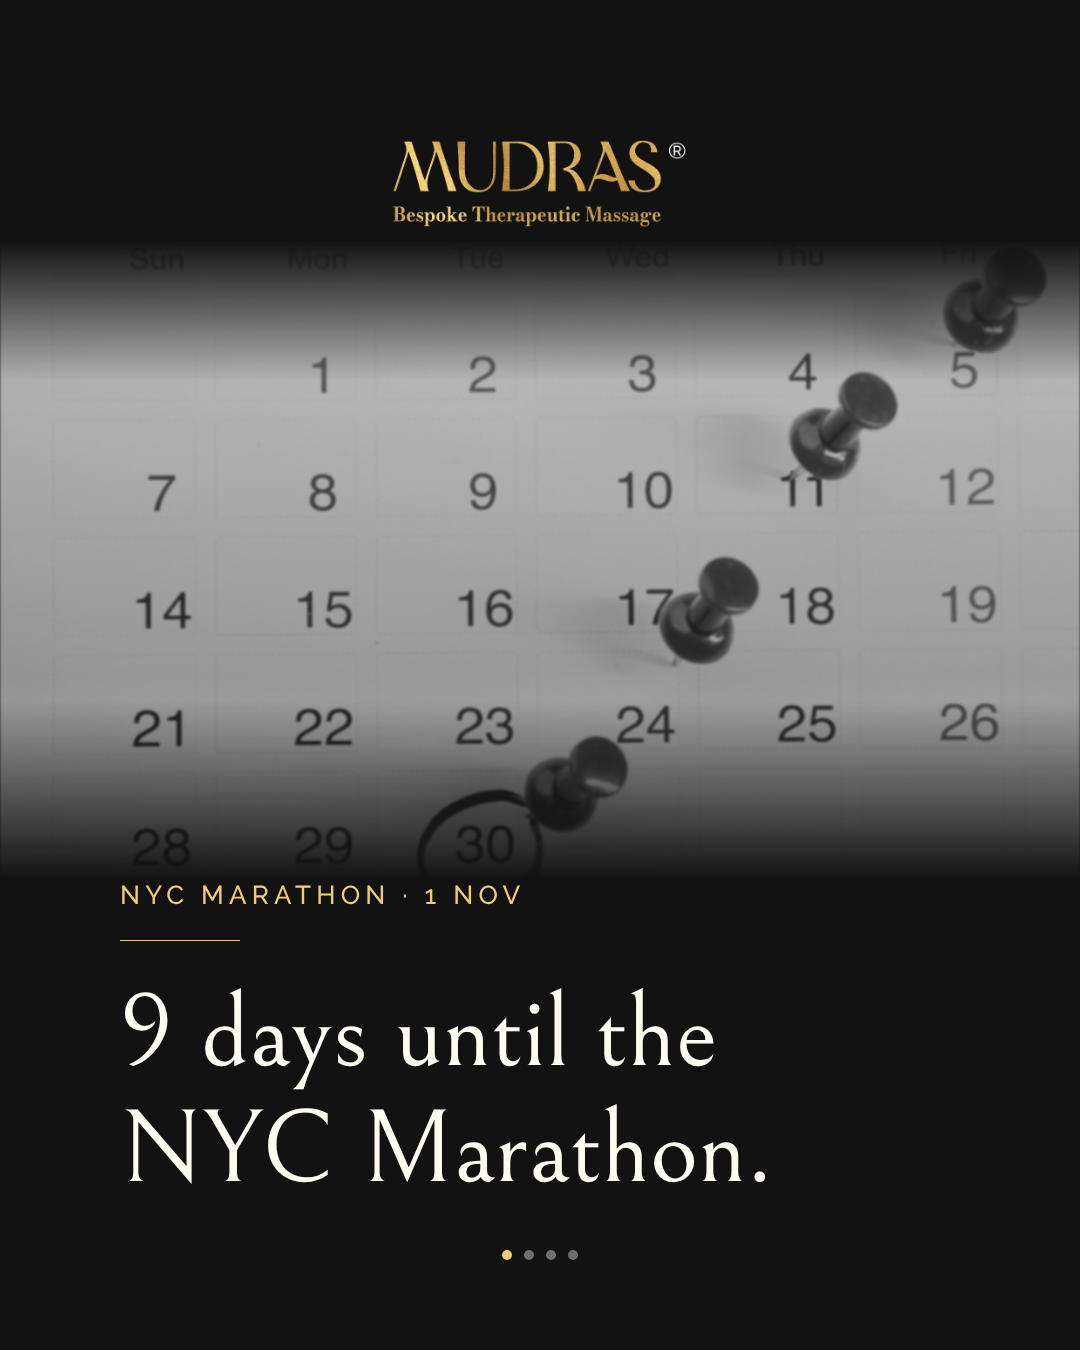
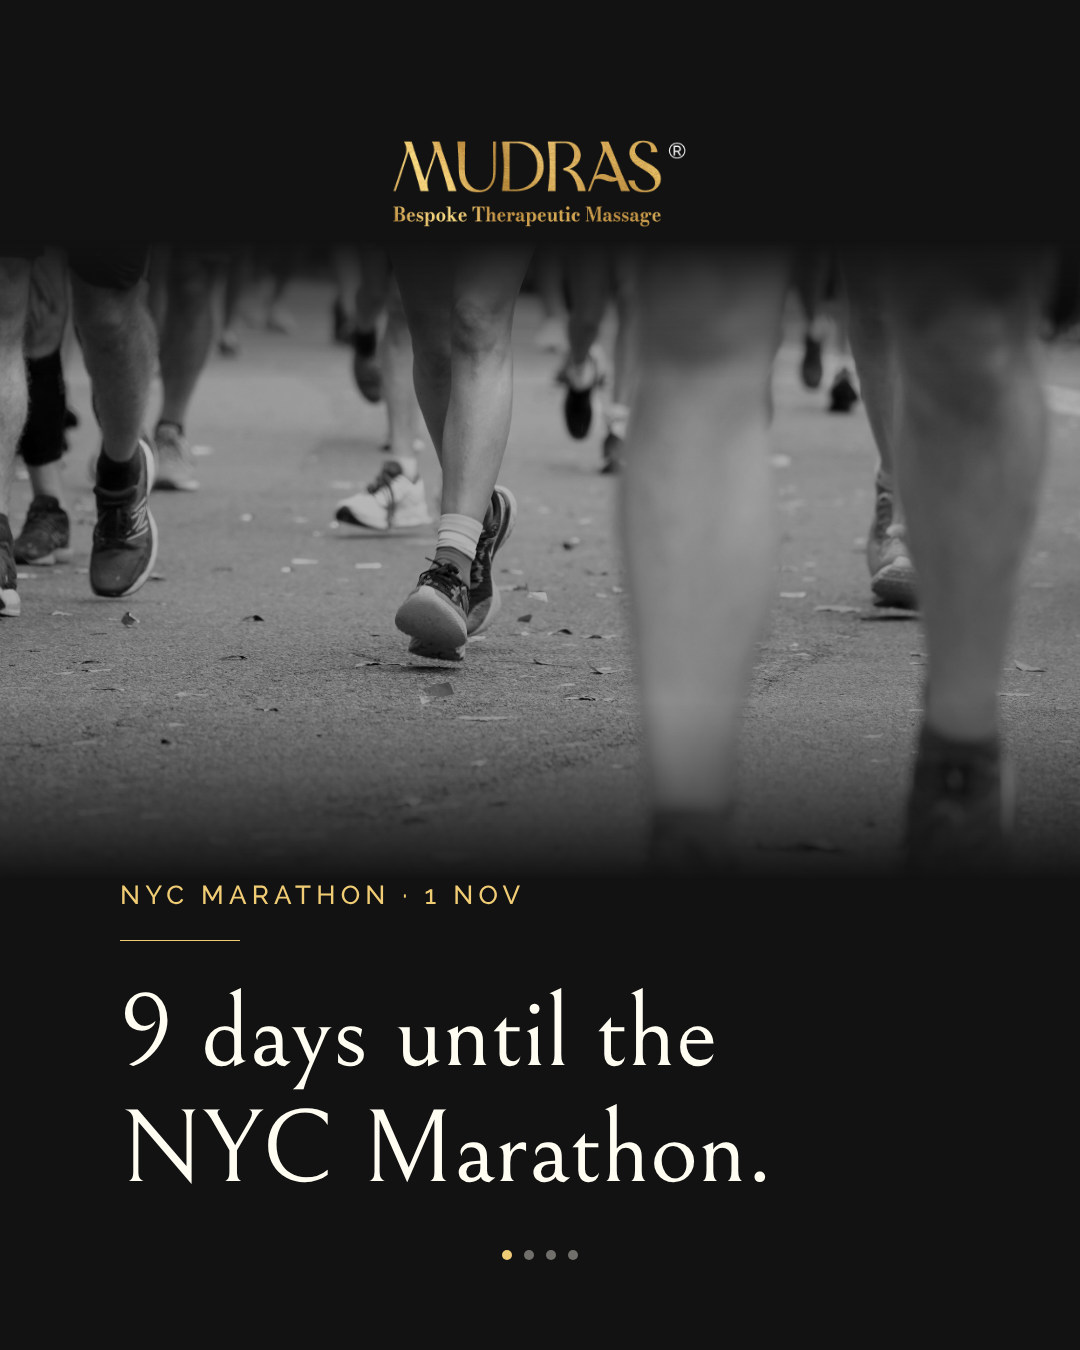
Mudras posts #1-#2: use photos that match the copy
Swap the calendar and spa still-life photos for NYC Marathon runners'
legs and leg-massage shots (Unsplash License, no faces), and update the
calendar's image description, source and download links for rows 1-2.

Claude-Session: https://claude.ai/code/session_01WnXcuRrGu4zGnnykNFmZUS

Changed region(s): [[0.0, 0.1867, 1.0, 0.6222]]

diff --git a/deliverables/mudras/source/design/posts.html b/deliverables/mudras/source/design/posts.html
@@ -37,7 +37,7 @@ body.notext .t{visibility:hidden}
 
 <!-- POST #1 · Instagram carousel · slide 1 (hook) -->
 <div class="ab p45" id="p1_s1">
-  <div class="photo" style="top:240px;bottom:auto;height:640px;background-image:url(../img/p1_calendar.jpg);background-size:cover;background-position:65% 20%;filter:grayscale(1) contrast(1.05) brightness(.72) blur(1px);-webkit-mask-image:linear-gradient(180deg,transparent 0%,#000 22%,#000 72%,transparent 100%);mask-image:linear-gradient(180deg,transparent 0%,#000 22%,#000 72%,transparent 100%)"></div>
+  <div class="photo" style="top:240px;bottom:auto;height:640px;background-image:url(../img/run_nyc_legs.jpg);background-size:cover;background-position:55% 50%;filter:grayscale(1) contrast(1.08) brightness(.75);-webkit-mask-image:linear-gradient(180deg,transparent 0%,#000 22%,#000 72%,transparent 100%);mask-image:linear-gradient(180deg,transparent 0%,#000 22%,#000 72%,transparent 100%)"></div>
   <div class="shade" style="background:linear-gradient(180deg,rgba(18,18,18,0) 30%,rgba(18,18,18,.15) 50%,rgba(18,18,18,0) 66%)"></div>
   <div class="logo t" style="position:absolute;top:140px;left:50%;transform:translateX(-50%);width:300px"><img src="../site/orig_Group_1487669750.png"></div>
   <div style="position:absolute;left:120px;right:120px;top:880px">
@@ -76,8 +76,7 @@ body.notext .t{visibility:hidden}
 
 <!-- slide 4 (CTA) -->
 <div class="ab p45" id="p1_s4">
-  <div class="photo" style="background-image:url(../img/p1_calendar.jpg);background-size:210%;background-position:30% 98%;filter:grayscale(1) brightness(.75) blur(3px)"></div>
-  <div class="shade" style="background:linear-gradient(180deg,var(--ink) 0%,rgba(18,18,18,.94) 62%,rgba(18,18,18,.6) 100%)"></div>
+  <div class="photo" style="top:640px;background-image:url(../img/leg_dark_crop.jpg);background-size:cover;background-position:30% 30%;filter:grayscale(1) contrast(1.1) brightness(.95);-webkit-mask-image:linear-gradient(180deg,transparent 0%,#000 30%);mask-image:linear-gradient(180deg,transparent 0%,#000 30%)"></div>
   <div class="logo t" style="position:absolute;top:140px;left:50%;transform:translateX(-50%);width:260px"><img src="../site/orig_Group_1487669750.png"></div>
   <div style="position:absolute;left:120px;right:120px;top:420px">
     <div class="rule" style="width:120px;margin-bottom:52px"></div>
@@ -89,7 +88,7 @@ body.notext .t{visibility:hidden}
 
 <!-- POST #1 · Instagram Story · y 460–980 left clear for the native countdown sticker -->
 <div class="ab story" id="p1_story">
-  <div class="photo" style="top:400px;bottom:auto;height:640px;background-image:url(../img/p1_calendar.jpg);background-size:cover;background-position:62% 20%;filter:grayscale(1) contrast(1.05) brightness(.72) blur(1px);-webkit-mask-image:linear-gradient(180deg,transparent 0%,#000 22%,#000 72%,transparent 100%);mask-image:linear-gradient(180deg,transparent 0%,#000 22%,#000 72%,transparent 100%)"></div>
+  <div class="photo" style="top:400px;bottom:auto;height:640px;background-image:url(../img/run_nyc_legs.jpg);background-size:cover;background-position:58% 50%;filter:grayscale(1) contrast(1.08) brightness(.75);-webkit-mask-image:linear-gradient(180deg,transparent 0%,#000 22%,#000 72%,transparent 100%);mask-image:linear-gradient(180deg,transparent 0%,#000 22%,#000 72%,transparent 100%)"></div>
   <div class="shade" style="background:rgba(18,18,18,.15)"></div>
   <div class="logo t" style="position:absolute;top:270px;left:50%;transform:translateX(-50%);width:300px"><img src="../site/orig_Group_1487669750.png"></div>
   <div style="position:absolute;left:120px;right:120px;top:1030px">
@@ -103,7 +102,7 @@ body.notext .t{visibility:hidden}
 
 <!-- POST #2 · Facebook 1080x1350 -->
 <div class="ab p45" id="p2_fb">
-  <div class="photo" style="bottom:auto;height:74%;background-image:url(../img/p2_table.jpg);background-size:cover;background-position:58% 50%;-webkit-mask-image:linear-gradient(180deg,transparent 0%,#000 22%,#000 72%,transparent 100%);mask-image:linear-gradient(180deg,transparent 0%,#000 22%,#000 72%,transparent 100%)"></div>
+  <div class="photo" style="bottom:auto;height:74%;background-image:url(../img/leg_towel.jpg);background-size:cover;background-position:50% 48%;-webkit-mask-image:linear-gradient(180deg,transparent 0%,#000 22%,#000 72%,transparent 100%);mask-image:linear-gradient(180deg,transparent 0%,#000 22%,#000 72%,transparent 100%)"></div>
   <div class="shade" style="background:linear-gradient(180deg,var(--ink) 0%,rgba(18,18,18,.92) 14%,rgba(18,18,18,.25) 28%,rgba(18,18,18,0) 74%)"></div>
   <div class="logo t" style="position:absolute;top:140px;left:50%;transform:translateX(-50%);width:280px"><img src="../site/orig_Group_1487669750.png"></div>
   <div style="position:absolute;left:120px;right:120px;top:960px">
@@ -115,7 +114,7 @@ body.notext .t{visibility:hidden}
 
 <!-- POST #2 · Facebook link image 1200x630 -->
 <div class="ab fbl" id="p2_fb_link" style="background:var(--black)">
-  <div class="photo" style="background-image:url(../img/p2_table.jpg);left:380px;background-size:cover;background-position:60% 60%;-webkit-mask-image:linear-gradient(90deg,transparent 0%,#000 40%);mask-image:linear-gradient(90deg,transparent 0%,#000 40%)"></div>
+  <div class="photo" style="background-image:url(../img/leg_towel.jpg);left:380px;background-size:cover;background-position:50% 45%;-webkit-mask-image:linear-gradient(90deg,transparent 0%,#000 40%);mask-image:linear-gradient(90deg,transparent 0%,#000 40%)"></div>
   <div class="logo t" style="position:absolute;left:120px;top:90px;width:210px"><img src="../site/orig_Group_1487669750.png"></div>
   <div style="position:absolute;left:120px;top:250px;width:480px">
     <div class="rule" style="width:90px;margin-bottom:24px"></div>

diff --git a/deliverables/mudras/README.md b/deliverables/mudras/README.md
@@ -1,12 +1,12 @@
 # Mudras social designs: posts #1–#2 (23 Oct 2026)
 
-| # | Platform | Files | Photo (Unsplash License) |
-|---|----------|-------|--------------------------|
-| 1 | Instagram carousel (4 slides) + Story | `post-01-instagram/` | https://unsplash.com/photos/bwOAixLG0uc |
-| 2 | Facebook feed 1080×1350 + link image 1200×630 | `post-02-facebook/` | https://unsplash.com/photos/VxAwTeiqDao |
+| # | Platform | Files | Photos (Unsplash License, free for commercial use) |
+|---|----------|-------|---------------------------------------------------|
+| 1 | Instagram carousel (4 slides) + Story | `post-01-instagram/` | Slides 1 + Story: https://unsplash.com/photos/Z-GDQeDaSB4 (cropped to legs, bib years cut). Slide 4: https://unsplash.com/photos/gavoj4Q_C_Q (top cropped so no face shows). |
+| 2 | Facebook feed 1080×1350 + link image 1200×630 | `post-02-facebook/` | https://unsplash.com/photos/yBLLzNcA6GU |
 
 The updated calendar is `Mudras_Social_Calendar_23Oct-5Nov_2026Posts_56.csv`. For rows 1–2, the status is now
-"Design ready - pending client approval", and *Direct download* holds the image file URLs.
+"Design ready - pending client approval". The sheet's original photos (a calendar, and a towel-and-bottle still life) did not match the copy, so they were replaced. *Image description*, *Image source link* and *Direct download* now describe the new photos.
 
 ## Brand sources (from mudras.com)
 - Logo: the header logo from mudras.com (`source/site/orig_Group_1487669750.png`, 344×101, the largest size the site serves).
